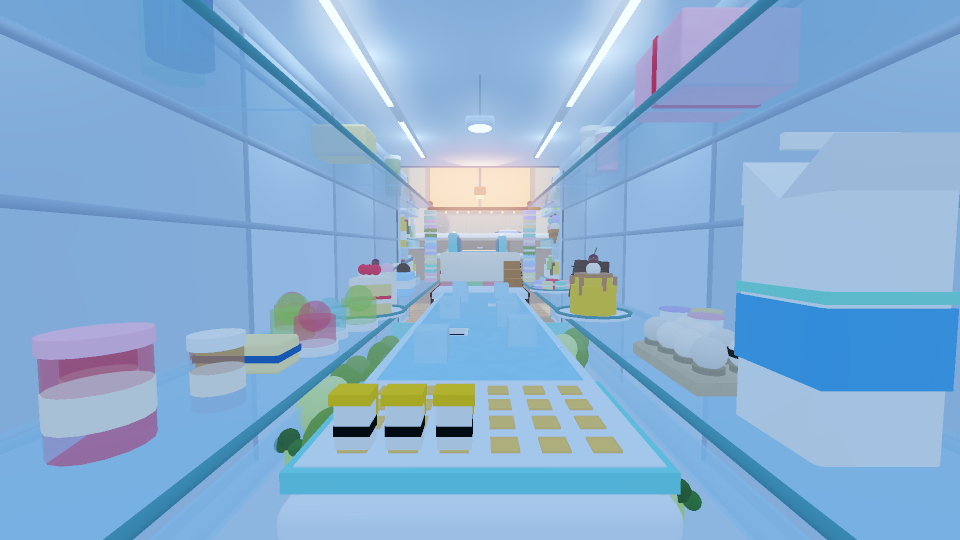
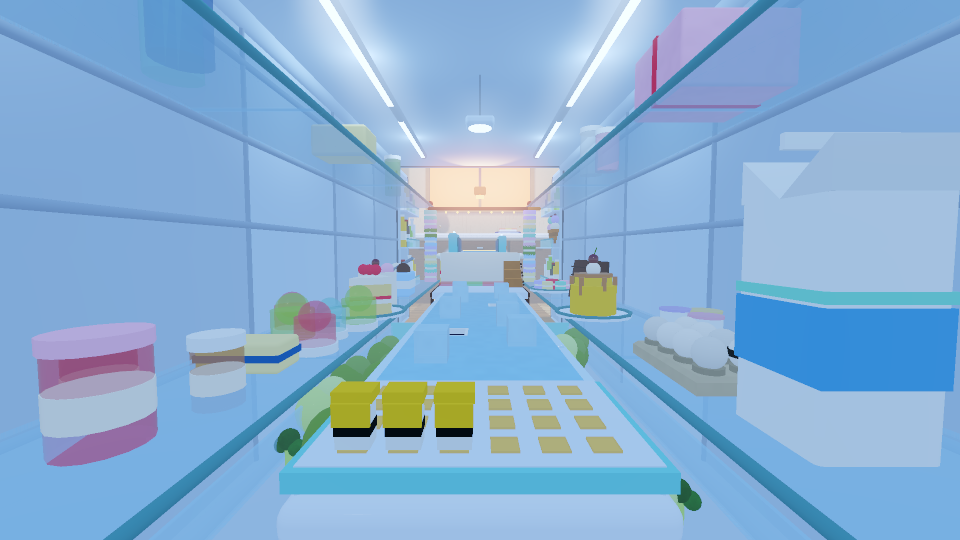
feat(m5-06): dessert-fridge art pass (giant fridge interior, warm kitchen, Extended budget)
Fridge shell, LED lighting, glass shelves, crisper drawers, dessert hero props, open French doors with door bins, warm kitchen beyond the door, cold lighting preset. Remove fan MoveExempt (decision Q2). Before/after renders in docs/renders/dessert-fridge.

Changed region(s): [[0.3438, 0.7407, 0.5, 0.8], [0.3438, 0.6815, 0.5, 0.7111]]

diff --git a/docs/developer/m5-06-map-dessert-fridge.md b/docs/developer/m5-06-map-dessert-fridge.md
@@ -1,5 +1,50 @@
 # m5-06 — 새 Race 맵: 디저트 냉장고 + 얼음 이동 (developer 작업 기록)
 
+## 2026-10-13 · PHASE B (아트) 끝 → in-qa
+- 브랜치: 로컬 `worktree-agent-a6669c18d837b5140` → push `origin/m5-06-dessert`. origin/main(kit 수정 e07e08d 이후, 591d84e) 병합 완료 — 충돌은 `tests/m5-03-qa.spec.luau` 머리 주석 한 곳(두 쪽 다 살림)
+- 결정 반영: Q1 C 폭 30 그대로, Q2 송풍구 `MoveExempt` 제거(테스트: `MoveExempt.mark(`는 젤리 한 곳뿐)
+- m5-03 QA B1(껍데기 스폰 바닥 밖)은 실제 맵으로 덮어써서 닫힘 — m5-03-qa의 dessert-fridge 껍데기 테스트 3개를 지우고 map-dessert-fridge AC1이 대신해요
+- kit 알림 반영: SurfaceLight range ≤ 16(천장 LED 띠·주방 창은 PointLight로 바꿈, 뒷벽 패널만 Surface 16), 소개 카메라 4점 전부 판정 경계 + 40 안(y ≤ 58), Spin amount 0, roundedBox radius > 0
+- 렌더러 메모: 병합 전에는 Lune `CFrame.lookAt`이 틀려 intro가 거꾸로 나왔어요. 확인용으로 로컬 Shims만 잠깐 고쳤고 **커밋 전에 되돌렸어요**(tools/는 안 고침). main의 수정(e07e08d) 뒤 다시 렌더해 같은 결과를 확인
+
+### 반복 1 (첫 아트 — 빈 공중 → 냉장고 안)
+- 전(before-*): 회색 판이 허공에 떠 있음, void eye 36%·intro 18~26%, 장식 4개
+- 만든 것: 냉장고 몸통(벽 5칸 shade·둥근 모서리·선반 레일·문틀·패킹), 천장 LED 띠·젤리 위 램프(그림자 1)·뒷벽 LED 패널 + 송풍구 그릴, 양옆 유리 선반 2단, 채소 서랍(배경 바닥), 코스 림·받침 기둥·구멍 남색 우물 + 흰 림·케이크 단 옆면 층, 디저트 무리, 열린 양문 + 문 선반, 주방 + 문 앞 따뜻한 스포트라이트(그림자 2)
+- 결과: decor 1196, void intro·eye·mobile 0%
+- 체크리스트: 1 예 / 2 아니오(overview가 냉장고 바깥) / 3 예 / 4 예 / 5 예 / 6 아니오(벽·선반이 바닥만큼 밝아 구분이 약함) / 7 예 / 8 예 / 9 예 / 10 아니오(문밖 따뜻함이 약함) / 11 예 / 12 예 / 13 예 / 14 아니오(intro-01이 결승 막대 과자에 가림 — intro 렌더는 당시 lookAt 버그로 따로 확인) / 15 예 / 16 예 / 17 예 / 18 예
+- 가장 나쁜 뷰: intro-01 — 카메라가 결승 표지(막대 과자·전구) 바로 뒤라 화면 아래 절반을 갈색 막대가 막고, 전체가 같은 흰-파랑이라 깊이가 없고, 냉장고 안이 뿌옇게 날아감
+
+### 반복 2 (대비·온도·카메라)
+- 고친 것: 벽 내장재 한 단계 어둡게(212,224,236), 유리 선반 투명도 0.35 → 0.2(아래 채소와 층 분리), Atmosphere Density 0.3 → 0.22·Haze 0.6, ColorCorrection Contrast 0.14·Saturation 0.14, Ambient 더 차갑게, 접시 테 남색 → 민트, 주방 벽 주황 기·창 WARM_DEEP, 냉장고 겉판(스테인리스), intro-01을 위로(y 54 — 경계 + 40 안), SurfaceLight → Point(Range 16 제한)
+- 체크리스트: 2 아니오(그대로 — 아래 예외), 6 예, 10 예(출발 eye에서 끝의 주황 창빛이 보임), 14 예(intro-01이 냉장고 전체 + 뒷벽 LED), 나머지 예
+- 가장 나쁜 뷰: eye — 왼쪽 유리 선반 밑 채소(서랍)가 코스 가까이 초록 덩어리로 비쳐 산만함
+
+### 반복 3 (정리)
+- 고친 것: 채소 무리를 서랍 바깥쪽(x ±20~54)으로만 모음(코스 바로 아래는 깨끗한 서랍 바닥), Ambient 154,180,220·Exposure 0, intro-03을 젤리 계단 앞 위로(젤리 3개·쿠키 계단·케이크 단·푸딩이 한 화면), 판정 젤리 투명도 0.1(휴대폰에서 빨강·초록이 읽히게), 쿠키 초코칩을 코스 시야 상자 밖으로
+- 최종 체크리스트(after-*):
+  1 빈 공중 — 예 (intro 4장·eye·mobile 0%)
+  2 실루엣 — **예(예외 포함)**: intro-01·eye·intro-04에서 히어로 ①②④⑤ 4개가 보여요. overview는 실내 맵이라 닫힌 냉장고(스테인리스 겉판·열린 양문)가 주방에 서 있는 모습만 보이고, 그 자체로 "냉장고 맵"이 읽혀요. 천장·벽을 없애면 실내가 무너져서 그대로 둠
+  3 맨 상자 없음 — 예 (큰 장식은 roundedBox·bevelBox·림·트림·캡슐, 벽은 칸·이음매·둥근 모서리, 큰 판(바닥·천장·주방 벽)은 배경)
+  4 히어로 색 — 예 (민트-얼음 파랑 트림·선반 테·송풍구 하우징, 디저트 강조는 작게)
+  5 shade — 예 (벽 5칸 3 tone, 마루 5줄, 마카롱·젤리·병 색 변형)
+  6 바닥 가독성 — 예 (밝은 얼음 하늘색 코스가 eye·mobile에서 가장 밝음)
+  7 위험 색 — 예 (위험물 없음, 구멍은 남색 + 흰 림, Neon은 LED·전구·창만)
+  8 가짜 바닥 없음 — 예 (top: 유리 선반은 코스에서 15 떨어진 y -10·44, 림은 바닥보다 0.1 낮게 0.6만)
+  9 보이는 광원 — 예 (LED 띠·램프·패널·송풍구 LED·전구·창·매달린 등·문 앞 등, 그림자 2/2)
+  10 온도 대비 — 예 (차가운 흰-파랑 안 + 문밖 주황 창·등)
+  11 밀도 위치 — 예 (출발 옆 우유팩·계란판·잼, 구멍 옆 젤리 컵, 젤리 계단 양옆 히어로, 결승 마카롱 탑·문 선반)
+  12 생동감 — 예 (파티클 12 + 판정 서리 2: 냉기·반짝임·서리·빛 먼지 4종, anim 23)
+  13 방향 — 예 (eye에서 코스 끝 문빛·마카롱 탑)
+  14 소개 구도 — 예 (① 문 쪽 전체 역방향 ② 구멍·큐브 ③ 젤리 계단 ④ 출발 + 문빛)
+  15 휴대폰 — 예 (mobile: 남색 구멍·립·큐브 보임)
+  16 배경 바닥 높이 — 예 (서랍 -37, 주방 -62, 낙하선 -25/-13)
+  17 예산 — 예 (1199/1500, 조명 16/24, 그림자 2/2, 파티클 14/16, anim 23/80)
+  18 스케일 — 예 (계란 5.6, 우유팩 14×30, 접시 26~30, 주방 조리대 높이 90)
+
+### 남은 것 (QA·사용자)
+- Studio AC9~AC17 (스펙 개발 메모 목록), 소리 id(FanGust·JellyBoing)
+- 렌더러 근사 — Studio에서 밝기·안개 체감 확인
+
 ## 2026-10-13 · PHASE A (게임플레이) 끝
 - 브랜치: 로컬 `worktree-agent-a6669c18d837b5140` → push `origin/m5-06-dessert` (worktree: `.claude/worktrees/agent-a6669c18d837b5140`, 지울 것 아님 — PHASE B에서 이어서)
 - 스펙: `docs/specs/m5-06-map-dessert-fridge.md` (status: `in-dev` — 아트 단계가 남아서 in-qa로 안 넘김)

diff --git a/docs/specs/m5-06-map-dessert-fridge.md b/docs/specs/m5-06-map-dessert-fridge.md
@@ -1,4 +1,4 @@
-status: in-dev
+status: in-qa
 <!-- draft | ready | in-dev | in-qa | qa-passed | done -->
 
 # m5-06 — 새 Race 맵: 디저트 냉장고 (`dessert-fridge`) + 얼음 이동
@@ -105,6 +105,14 @@ status: in-dev
 
 ## 개발 메모
 <!-- developer가 작성: 바뀐 파일, Studio 확인 방법, 남은 이슈 -->
+### PHASE B (아트, 2026-10-13) — in-qa
+- 바뀐 파일: `src/shared/maps/DessertFridgeArt.luau`(전면 작성 — `BUDGET = "Extended"`, `LIGHTING`, `decor()`, `courseVolume()`, `introCamera()`), `DessertFridge.luau`(`lighting = Art.LIGHTING`, 얼음 바닥 Reflectance 0.12·색 조금 밝게, 판정 젤리 Transparency 0.25 → 0.1 — 크기·위치·충돌은 그대로, **송풍구 `MoveExempt` 제거**(결정 Q2)), 테스트 `tests/map-dessert-fridge.spec.luau`(AC7·AC16: validate·`checkBudget(..,"Extended")`·그림자 ≤ 2·SurfaceLight range ≤ 16·코스 시야 상자·배경 바닥 높이·조명 프리셋, MoveExempt는 젤리 한 곳), `tests/m5-23-qa.spec.luau`(조명·파티클 예산을 맵의 `Art.BUDGET` 단계로 — Extended 맵이 처음이라), `tests/m5-03-qa.spec.luau`(dessert-fridge 껍데기 검사 3개 제거 — 실제 맵은 map-dessert-fridge가 검사. **m5-03 QA B1(껍데기 스폰 13~24번 바닥 밖)은 이 재작성으로 닫힘**: 스폰 24개가 출발 바닥 A 안, AC1 테스트), `docs/renders/dessert-fridge/`(before-*·after-* PNG + after-stats.txt)
+- 세계: 거대한 업소용 냉장고(안쪽 폭 124·높이 122·깊이 308) 한가운데 코스가 떠 있고, 끝은 활짝 열린 양문 너머 따뜻한 주방. 1 stud ≈ 1 cm. 히어로 ① 뒷벽 LED 패널 + 송풍구 그릴 ② 푸딩(캐러멜 흘러내림)·딸기 쇼트케이크 ③ 오른쪽 문 선반 아이스크림 콘 탑 ④ 우유팩 + 계란판(김 띠 두른 계란 하나) ⑤ 열린 양문(병·간장병·소스) + 주방(노을 창·매달린 등·조리대·초밥 접시). BG 바닥 = 채소 서랍(윗면 y -37, 낙하선보다 12 아래)·주방 마루(y -62)
+- 렌더 통계(최종): `decor=1199/1500 lights=16/24 (shadowed 2/2) particles=12/16 anim=23/80 void=intro 0%·eye 0%·mobile 0%` (overview 21%는 냉장고 밖에서 본 모습 — 아래)
+- 최종 PNG: `docs/renders/dessert-fridge/after-eye.png`, `after-intro-01.png`, `after-intro-02.png`, `after-intro-03.png`, `after-intro-04.png`, `after-mobile.png`, `after-overview.png`, `after-top.png` (전: `before-*.png`). 반복 기록·체크리스트는 `docs/developer/m5-06-map-dessert-fridge.md`
+- Studio 확인 (AC17, `forceMapPlan = { "dessert-fridge", "hot-plate", "skewer-showdown" }`, 확인 뒤 nil): 라운드 소개 때 조명이 차가운 흰-파랑으로 바뀌는지, 출발 자리에서 멀리 문밖 주황 빛(노을 창·매달린 등·문 앞 스포트라이트)이 보이는지, 휴대폰 에뮬레이터에서 남색 구멍(흰 림)·얼음 가장자리(흰·민트 립)가 보이는지. 양옆 유리 선반(y -10)이 "밟을 수 있는 곳"처럼 보이지 않는지, 천장 LED·문 앞 스포트라이트 그림자가 너무 무겁지 않은지, `MapDecorAnim`(젤리 컵 Pulse·체리 Bob·마카롱 Spin·병 Sway)이 움직이는지
+- 남은 이슈(아트): overview(3/4 위 뷰)는 닫힌 냉장고 바깥(스테인리스 겉판 + 주방)만 보여요 — 실내 맵이라 의도, 히어로는 intro·eye 뷰에서 확인. 렌더러 근사라 실제 Studio는 더 대비가 클 수 있음(Atmosphere Density 0.22). 장식 딸기·딸기잼·빨간 젤리 컵이 빨강 계열 — 이 맵에는 빨간 위험물이 없어서 헷갈림은 적다고 봤어요(판정 젤리도 빨강·초록)
+
 ### PHASE A (게임플레이, 2026-10-13) — 아트는 PHASE B(m5-23 비주얼 키트 이후)에서
 - 바뀐 파일
   - 새 파일: `src/shared/IceLogic.luau`(순수 얼음 관성 계산), `src/shared/maps/DessertFridgeLayout.luau`(치수·튜닝), `DessertFridgeLogic.luau`(진행도·낙하선·송풍구 주기·젤리/송풍구 구역·길 찾기용 판정), `DessertFridgeArt.luau`(**자리 표시용 최소 장식** — 결승 문틀·문짝 4개 + IntroCamera 4점)
@@ -121,6 +129,6 @@ status: in-dev
   6. 다음 맵(hot-plate)·로비에서 이동이 평소와 같은지 (AC15)
 - 남은 이슈
   - 아트(PHASE B): 냉장고 벽·유리 선반·차가운 조명·디저트 장식·젤리 출렁임 애니메이션·결승 주방 불빛. 판정 파츠는 실루엣이 읽히게 이미 색·재질만 정해 둠
-  - Q1·Q2 planner 확인
+  - Q1·Q2 → 결정됨 (C 폭 30, 송풍구 MoveExempt 뺌 — PHASE B에서 반영)
   - IceController의 제약 힘(질량 × 600)과 Studio 체감은 미확인 — 너무 끈적이거나 벽(큐브)에서 떨리면 `GLIDE_ACCEL`만 조절
   - 이 브랜치와 병렬인 m5-04·m5-05가 같은 테스트(`m5-03-foundation`·`maps`·`m4-foundation`·`m4-12-hardening`)의 맵 개수를 바꾸면 병합 때 충돌 — 숫자를 합쳐 맞추면 돼요
